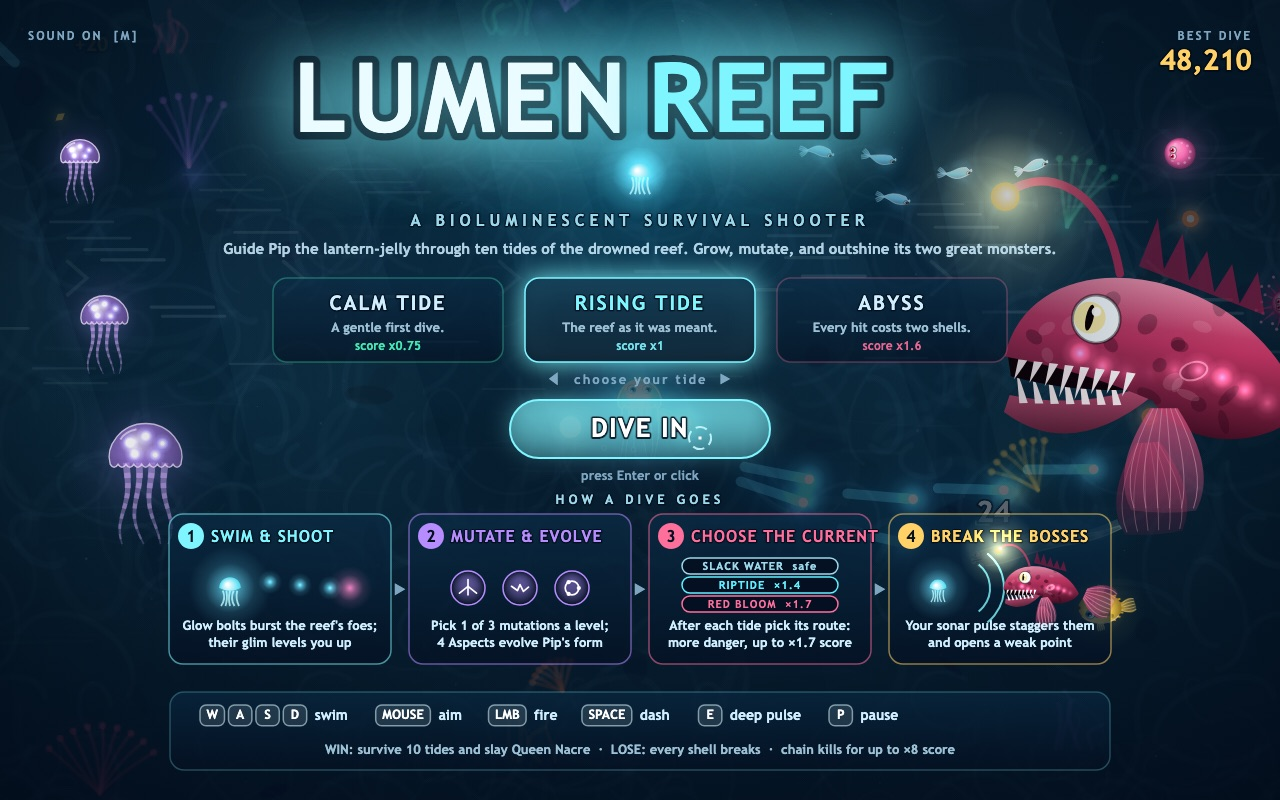
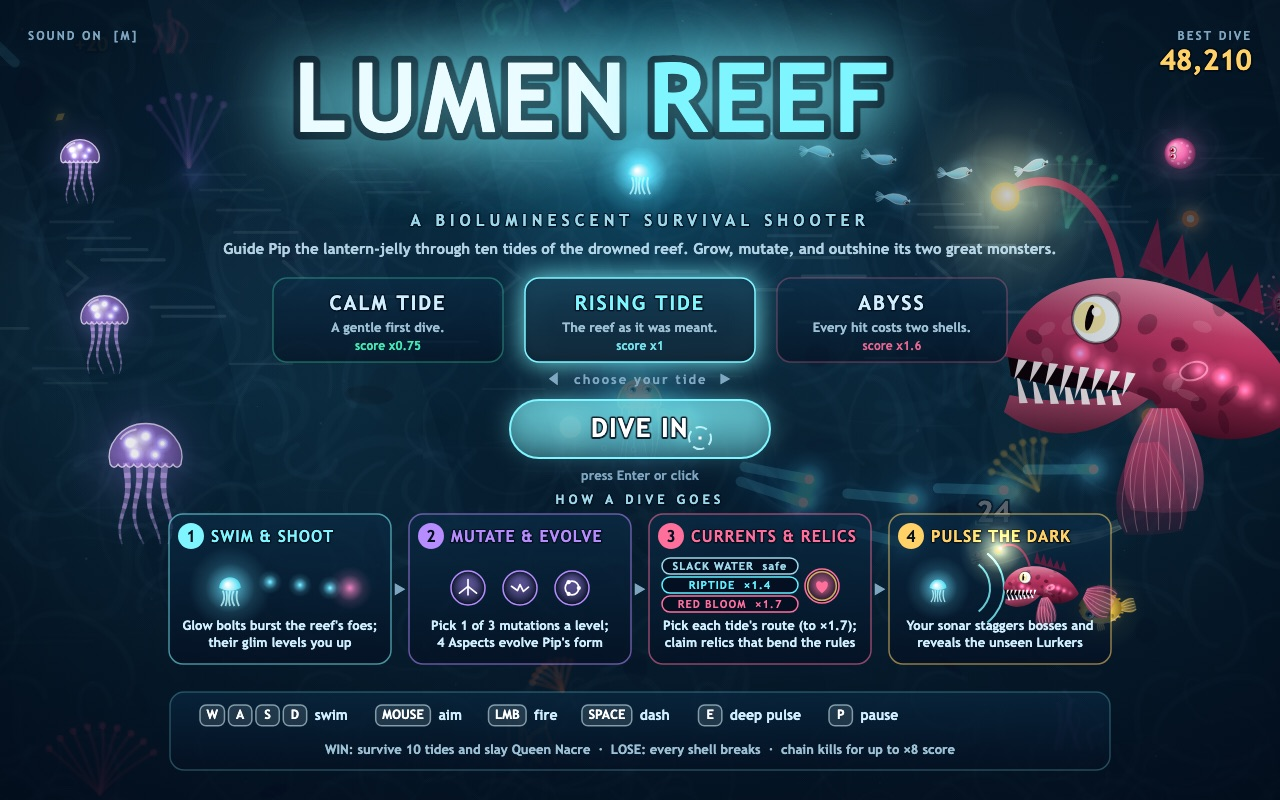
Title strip names relics and the pulse-revealed Lurkers

Changed region(s): [[0.5, 0.6562, 0.6875, 0.8125], [0.7188, 0.6562, 0.875, 0.6875], [0.7188, 0.7812, 0.8438, 0.8125]]

diff --git a/game/src/ui/title-screen.js b/game/src/ui/title-screen.js
@@ -8,6 +8,7 @@ import { drawGlow, withAlpha } from '../render/glow.js';
 import { drawTitleArt, drawMiniMaw } from './title-art.js';
 import { drawMutationIcon } from './icons.js';
 import { ROUTES } from '../game/tides.js';
+import { drawRelicIcon } from './relic-icons.js';
 
 export const DIFF_ORDER = ['calm', 'rising', 'abyss'];
 
@@ -70,8 +71,8 @@ export function drawTitle(ctx, ui, t) {
 const STEPS = [
   { title: 'SWIM & SHOOT', color: '#7ff6ff', lines: ['Glow bolts burst the reef\'s foes;', 'their glim levels you up'] },
   { title: 'MUTATE & EVOLVE', color: '#b78cff', lines: ['Pick 1 of 3 mutations a level;', '4 Aspects evolve Pip\'s form'] },
-  { title: 'CHOOSE THE CURRENT', color: '#ff6f9c', lines: ['After each tide pick its route:', 'more danger, up to ×1.7 score'] },
-  { title: 'BREAK THE BOSSES', color: '#ffd166', lines: ['Your sonar pulse staggers them', 'and opens a weak point'] },
+  { title: 'CURRENTS & RELICS', color: '#ff6f9c', lines: ['Pick each tide\'s route (to ×1.7);', 'claim relics that bend the rules'] },
+  { title: 'PULSE THE DARK', color: '#ffd166', lines: ['Your sonar staggers bosses and', 'reveals the unseen Lurkers'] },
 ];
 
 function drawDiveSteps(ctx, cx, y, t) {
@@ -102,14 +103,15 @@ function drawStepArt(ctx, i, x, y, t) {
   } else if (i === 1) {
     ['split', 'static', 'pearls'].forEach((id, k) => drawMutationIcon(ctx, id, x - 52 + k * 52, y, 17));
   } else if (i === 2) {
+    drawRelicIcon(ctx, 'heart', x + 62, y - 2, 17);
     ['slack', 'riptide', 'redbloom'].forEach((id, k) => {
       const r = ROUTES[id];
       const py = y - 22 + k * 19;
       ctx.fillStyle = 'rgba(3, 14, 30, 0.85)';
       ctx.strokeStyle = r.color;
       ctx.lineWidth = 1.5;
-      ctx.beginPath(); ctx.roundRect(x - 78, py - 8, 156, 16, 8); ctx.fill(); ctx.stroke();
-      text(ctx, `${r.name.toUpperCase()}  ${r.score > 1 ? `×${r.score}` : 'safe'}`, x, py + 4, { size: 11, weight: 900, align: 'center', color: r.color, stroke: false, spacing: 1 });
+      ctx.beginPath(); ctx.roundRect(x - 98, py - 8, 136, 16, 8); ctx.fill(); ctx.stroke();
+      text(ctx, `${r.name.toUpperCase()}  ${r.score > 1 ? `×${r.score}` : 'safe'}`, x - 30, py + 4, { size: 11, weight: 900, align: 'center', color: r.color, stroke: false, spacing: 1 });
     });
   } else {
     ctx.save();
